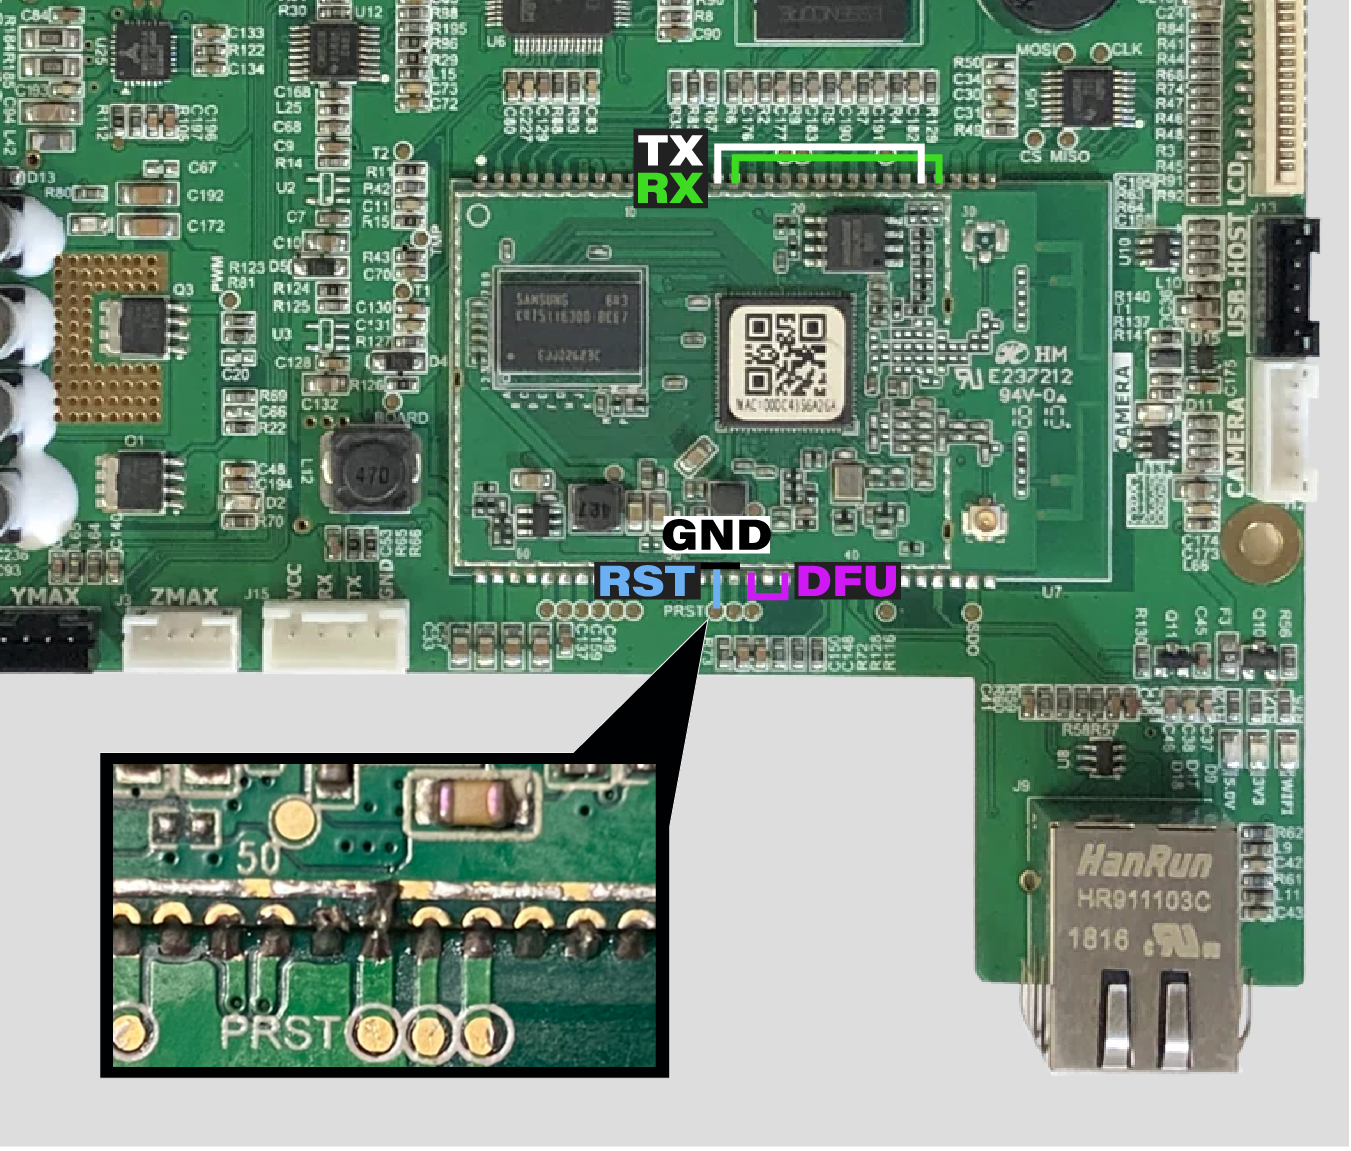
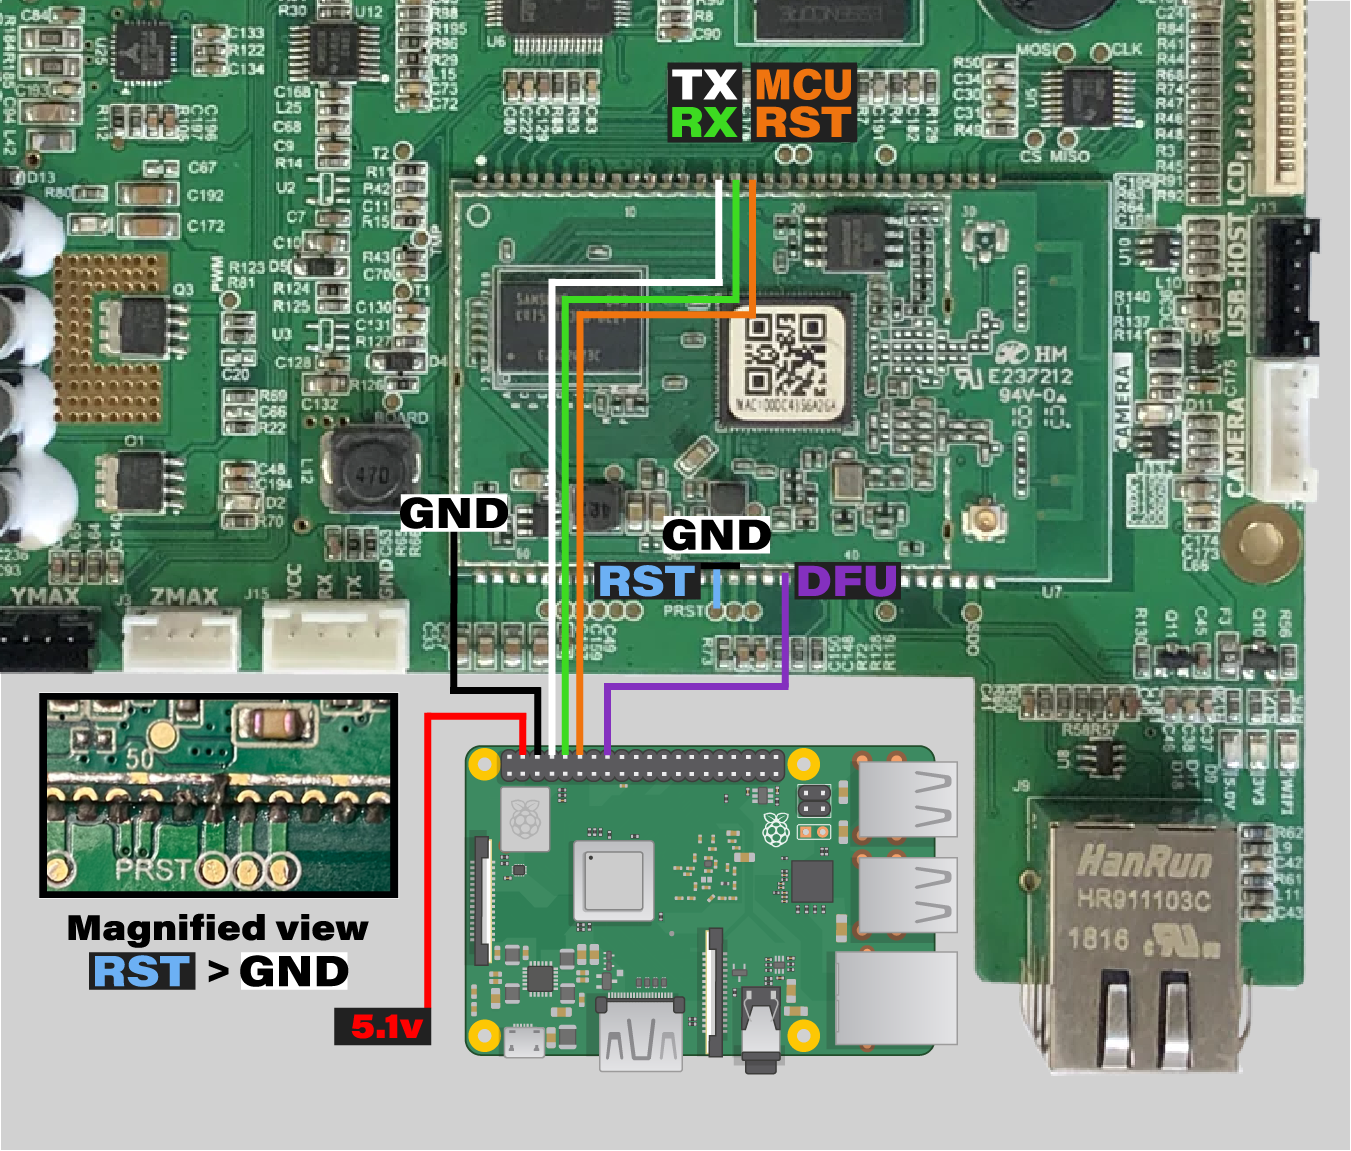
Version 2.0-preview of the guide
New install guide; Massive overhaul of installation method and instructions. Much easier to accomplish! Very easy to undo also.

Changed region(s): [[0.0311, 0.0304, 0.715, 0.9427], [0.0, 0.0, 1.0, 1.0]]

diff --git a/README.md b/README.md
@@ -1,86 +1,69 @@
-# Adventurer-Voxel-Klipper
-#### This repository aims to provide a way to flash Klipper to a MonoPrice Voxel or Adventurer 3 3D printer. This can be done by disabling the MediaTek module and using a Raspberry Pi in its place.
+<p align="center">
+  <a>
+    <img src="https://raw.githubusercontent.com/VioSynthax/Adventurer-Voxel-Klipper/2.0-preview/images/klippventurer.svg" alt="Klippventurer logo" height="181">
+    <h1 align="center">Klipper for Adventurer 3</h1>
+  </a>
+</p>
 
-While I am using Fluidd here instead of OctoPrint, if using a suitably powerful host OctoPrint is an option. There is further info at the end of the guide if you choose to attempt this with the original processor. You are solely responsible for any damage caused by following any part of this guide.
-
-# Part 1 - Modify Your Board
-
-## You will need:
+#### You are solely responsible for any damage or injury caused by following any part of this guide.
+### You will need:
 
 + very basic soldering skills
 + insulated wire, preferably silicone
 + a soldering iron with temperature control
 + solder (preferably SnPb or SnBi solder, SnAg is harder to work with)
-
-+ recommended - paste or liquid flux
-+ optional - cotton swabs and or cotton pads (something to clean the board with)
-+ optional - alcohol or PCB cleaner
-
-Step 0: Remove the board from the printer and place it on your work surface.
-
-Step 1: Apply flux (if using) and then tin the pads shown in the diagram.
-
-Step 2: locate the pads in the diagram (ADV-VOX-Pin-Mod.png) and solder wires bridging the pads as indicated. You should now have the following:
-+ one wire bridging the two pads with the green jumper in the diagram
-+ one wire bridging the two with the white jumper indicator
-+ one wire bridging the DFU points indicated in the diagram
-
-![Pin Mod Diagram](https://github.com/VioSynthax/Adventurer-Voxel-Klipper/raw/main/ADV-VOX-Pin-Mod.png)
-
-Congratulations, if you've successfully followed the instructions up to this point, you have a 3D printer board ready to flash with the lastest version of Klipper (or the firmware of your choosing) Follow to Part 2 for flashing Klipper and making your bridge cable
-
-# Part 2 - Installing Klipper and establishing a link to your host
-Note - FLASH YOUR HOST BOARD BEFORE DOING THIS. I recommend Fluidd Pi. https://github.com/fluidd-core/FluiddPI
-
-## You will need: 
-
-+ A flashed host board (probably a Raspberry Pi Model 2, 3, or 4, but anything you can run Klipper on will work)
++ A host with Klipper installed (Pi Zero 2 W, 3, or 4 work best, but anything you can run Klipper on will work)
++ + Use this for easy setup on a Raspberry Pi https://github.com/th33xitus/kiauh
++ a 24 volt input capable buck converter set to 5.1 volts output (unless you want to keep the Pi outside the printer or power it seperately)
++ + here's a good option: https://www.amazon.com/LM2596-Converter-4-0-40V-1-25-37V-Voltmeter%EF%BC%882pcs%EF%BC%89/dp/B085WC5G8N/
++ female Dupont pins, 2.54mm pitch (not needed if soldering directly to Pi Zero)
++ 1x Dupont 8-pin connector (Multiple Dupont connectors with fewer pins work too, or you could solder straight to GPIO pads on Pi Zero)
++ a crimping tool (not needed if soldering directly to Pi Zero)
 + some wire
-+ female Dupont pins, 2.54mm pitch, and 2x JST XH 4-pin female connectors
-+ 2x single pin female Dupont header connectors for powering the Pi
-+ a crimping tool for said pins, here's a cheap one: https://www.amazon.com/gp/product/B088NQV8Z3
-+ wire strippers or something with which to strip your wires
-+ a 24 volt input capable buck converter set to 5.1 volts output, here's a good option: https://www.amazon.com/LM2596-Converter-4-0-40V-1-25-37V-Voltmeter%EF%BC%882pcs%EF%BC%89/dp/B085WC5G8N/
-+ an ST-Link V2 programmer: https://www.amazon.com/gp/product/B07SQV6VLZ
-+ STM32CubeProgrammer installed on your computer (or an alternative if you prefer)
++ + here's a kit with all the connectors, pins, crimping tool, and wire that you'll need
++ + https://www.amazon.com/Qibaok-Crimping-Ratcheting-Crimper-Connectors/dp/B07ZHB4BBY/
+#### Recommended: 
++ paste or liquid flux
++ cotton swabs and or cotton pads (something to clean the board with)
++ alcohol or PCB cleaner
 
-Step 0: Locate the BOOT0 DFU pins on your mainboard as indicated in the diagram (ADV-VOX-Pin-Mod.png) solder a wire across these two pins
-
-Step 1: Connect your ST-Link programmer to the ST-Link port on your mainboard. (labeled V C D G on the silk screen in the top right corner) Connect V to 3.3V, G to GND, C to SWCLK, and D to SWDIO. You can use the cable from Step 4 (below) to do this, just leave the plastic connector off of one end. Do take extra care when using bare crimps to not short 3.3V and GND, as they are right next to each other on the clone STLink programmers from Amazon or AliExpress.
- + If you can't connect, plug the printer's power supply into the mainboard to power it while you are programming. You can also use a DC power supply that outputs between 12 and 24 volts. 12 is plenty for what we're doing here.
-
-Step 2: Open STM32CubeProgrammer "CubeProg" and select at the top right ST-Link. You may need to update the ST-Link if it's brand new. Port - SWD, Mode - Hot Plug. Reset Mode - Software reset. Hit Connect.
-
-Step 3: Select the "Open file" tab at the top of CubeProg. Select your Klipper binary, (Klipper.bin if you use the one I provide) and under the Download dropdown, make sure Address is set to 0x08000000 then click Download. If everything is successful you can remove your BOOT0 DFU jumper (if you soldered one) and reinstall the mainboard in your printer. Don't connect everything yet, you should connect power and test the serial connection with your host first. If successful, reconnect everything.
-
-Step 4: Measure 3 wires of about 4-6 inches in length, strip both ends of each just enough for the end to be exposed inside the Dupont connector (about 1mm). Crimp a pin onto both ends of each wire.
-Insert these 3 wires into the GND, RX, and TX pins on JST connectors as shown in the diagram. Pay close attention to serial TX on the Pi being connected to RX on the main board. TX stands for "transmit" and RX for "receive" so these need to be crossed TX>RX and RX>TX.
-
-Note: Don't connect the 5v line from the serial header to the Pi, it should not be connected.
-
-## If you want a neat and tidy internal power connection to the Pi, complete Step 5.
-
-Step 5: Remove the bottom plastic panel of the printer to expose the screw terminals on the power supply.
-Unscrew the positive and negative 24 volt output screws.
-Prepare two wires for powering your buck converter of about 4 inches. Strip one end about 2mm and the other 1/4 inch.
-Solder the shorter ends to your buck converter's input pads or insert them into its screw terminals, depending on which it has.
-Twist the ends of 1/4 inch of stripped wire to keep them together. Insert under your PSU's output terminals, on top of the spade connectors. Tighten town your terminal screws and tug on the wires and spade connectors to ensure a tight fit. Do NOT tin the wires, this can cause a poor connection and result in arc flash. If you want an even more secure connection, splice these wires into the mainboard supply wires instead.
-Solder another pair of wires about 6 inches in length or more to the output on your buck converter, or insert them into the output screw terminals if your converter has them. Make sure your buck converter is not outputting more than 5.2 volts at this time and no less than 5.1 volts. Pi 1/2 likely only need 5.0 volts, Pi 3/4 may need 5.1 volts. Stay clear of the exposed mains voltage when you test this.
-Strip 1mm off the ends of these output wires, Crimp a single pin Dupont female pin onto each wire's end. Insert each into a female Dupont header connector.
-Connect these wires to the 5V and GND connections on your Pi's GPIO header that aren't taken up by our serial cable we made.
-
-Step 6: INSULATE YOUR PI AND BUCK CONVERTER. You can 3D print cases for these to mount them on the top side of the access plate to sort of hinge open if you'd like, make sure you've cut wires long enough for however you are mounting your host board. If not, cover them in some tape and make sure nothing shorts when you close your access panel. You might even be able to squeeze the Pi somewhere near where the screen of the printer is, you'll need to remove the side to access that spot. I haven't tried, so not sure if there's room
-
-Optional Step: Add an antenna connector to your Pi if it doesn't already have one. Attach the printer's built in WiFi antenna to your Pi.
-More info here- https://hackaday.io/project/10091-raspberry-pi-3-external-antenna
+# Part 1 - Tapping in 🪛
 
 
-# Part 3 - The Easy Part
 
-Step 0: Just rename Adventurer-3.cfg to printer.cfg and place it inside Fluidd Pi's config directory, or your home directory if using OctoPi + Klipper.
+Step 0: Unplug your 3D printer. Remove the bottom plastic cover from the printer (this is so we can access the power supply's DC output to power our Pi). you may choose to remove the board from the printer and place it on your work surface to make soldering easier.
 
-Step 1: Live your hobbyist 3D printing dreams and tune your printer forever instead of actually printing with it. Or print with it. Your choice.
+Step 1: Locate the pads in the diagram (Wiring-diagram.png) and apply flux (if using), then tin the pads.
+![Pin Mod Diagram](https://github.com/VioSynthax/Adventurer-Voxel-Klipper/blob/main/images/Wiring-diagram.png?raw=true)
+Step 2: Solder your wires and solder blob to the pads as indicated. Make sure all 5 wires here are long enough to connect to your Pi, wherever you've chosen to mount it. Strip both ends before soldering to make your life easier later (about 2mm on each end) You should connect the following to your printer's mainboard:
++ one wire to TX (white)
++ one wire to RX (green)
++ one wire to MCU RST (orange)
++ one wire to DFU (purple)
++ one wire to GND (black)
++ one solder blob bridging the RST pad to the GND pad (blue/black) see magnified view
 
-Step 2: ???
+# Part 2 - Connecting to the Pi 🔌
 
-Step 3: Profit.
+Step 0: Klipper should be installed on your Pi, and it should be connected to your WiFi network before proceeding to the next step.
+    
+Step 1: Choose where you would like to mount your buck converter, if you're using one. This will power the Pi when it's installed into the printer's electronics box. Cut a pair of wires (one red, one black) long enough to reach from your buck converter to the printer's power supply. Strip the ends by about 3-5mm. Loosen the screws of the two unused terminals next to your printer board's power cable. Twist the ends of your wires, and bend them into a hook shape. Wrap the hooked end of your black wire around the "V-" screw in a clockwise direction (insert from the left side of the screw). Do the same for your red wire, this time with the "V+" screw terminal. Route these power wires toward the same area as your printer's mainboard.
+
+Step 2: Insert the V+ and V- wires into your buck converter's "IN+" and "IN-" terminals respectively, and tighten down the screw terminals (or solder them on if your buck converter doesn't have screw terminals)
+
+Step 3: Reinstall the bottom cover of the printer, leaving the metal access panel open. Sit your buck converter on the plastic outer shell of the printer with the unit upside-down. (careful with your printer in this orientation, don't go slamming it around. The bed is only mounted on one linear rail) Plug your AC power cable into the printer with the power switch turned off. Make sure your buck converter isn't sitting on a metal surface, then go ahead and flip the power switch to the "on" position. Turn the small potentiometer dial on the potentiometer until the voltage reads 5.1 volts. If your converter doesn't have an LCD voltage readout, use a multimeter. Once the voltage is set, turn the switch off and unplug the printer.
+
+###### If soldering wires directly to Pi Zero, skip step 4 and solder your GPIO connections now (plus a 5.1v wire to your buck converter's OUT+ terminal)
+Step 4: Back over to our mainboard. Prepare your crimp connectors and make sure the ends of your wires soldered to the board are stripped. Crimp a female pin onto each of the 5 wires. Cut one additional wire long enough to reach from near the mainboard's power input plug to the Pi's GPIO header. Strip the ends and crimp a pin onto one of them. Insert all of these wires into an 8-pin Dupont connector EXACTLY in the order shown in the diagram. (Wiring-diagram.png) You should have, in this order: 
+##### Empty, red (5.1v), black (GND), white (TX), green (RX), orange (MCU RST), Empty, purple (DFU)
+You will have an additional loose wire coming from the Dupont connector.
+
+Step 5: Reinstall the mainboard into the printer, and reconnect all of the cables. Connect the loose 5.1v wire from the Dupont connector to the "OUT+" terminal on the buck converter. Wrap the buck converter in kapton tape. Apply double-sided foam tape to the underside, and stick it on the printer's mainboard. Leave the 8-pin Dupont connector loose for the moment. Time to test! Plug the printer back into power, and flip the switch on. The printer shouldn't boot up. Screen should remain black, LEDs should come on, and nothing should happen. If it does boot normally, make sure RST is bridged to GND and try again. Don't work inside the printer with the power cable connected.
+
+Step 6: Apply foam tape to the bottom of the Pi. Make sure the entire bottom is covered in foam tape or you can use Kapton as well if you don't want to use a ton of foam tape if using a full sized Pi. Don't remove the backing from the tape just yet. With the power cable disconnected, connect the 8-pin Dupont connector to the Pi's GPIO header as shown in the diagram. Test fit the Pi by placing it inside the printer's electronics box, next to the buck converter. Make sure both fit inside the case, between the mainboard and the access cover. You can now remove the backing from the foam tape, and stick your Pi to the inside of the metal cover in roughly the same position as it was in while test fitting. Sit the cover loosely onto the bottom of the printer, and do one more test. The LED on the Pi should light up, and the LEDs on the mainboard should as well. Screw on the bottom cover, and that concludes the hardware portion of this guide! Onto part 3 to setup the firmware and software.
+
+
+# Part 3 - The Home Stretch? 🍰
+
+# This part of the guide is unfinished. Watch this repo to receive a notification when it's ready.
+This will involve a script that configures the UART port, builds Klipper.bin for the STM32 inside the printer, and installs it over serial- all automatically. This is a huge departure from the earlier versions of this guide, where an ST-Link programmer was used to manually flash the microcontroller with a bootloader and Klipper firmware, then the Pi needed manual configuration to make serial work. This was janky, overly complicated, and just outright didn't work for most people. I don't want to call the new method foolproof just yet, but I do think it will massively simplify most of the firmware setup.
